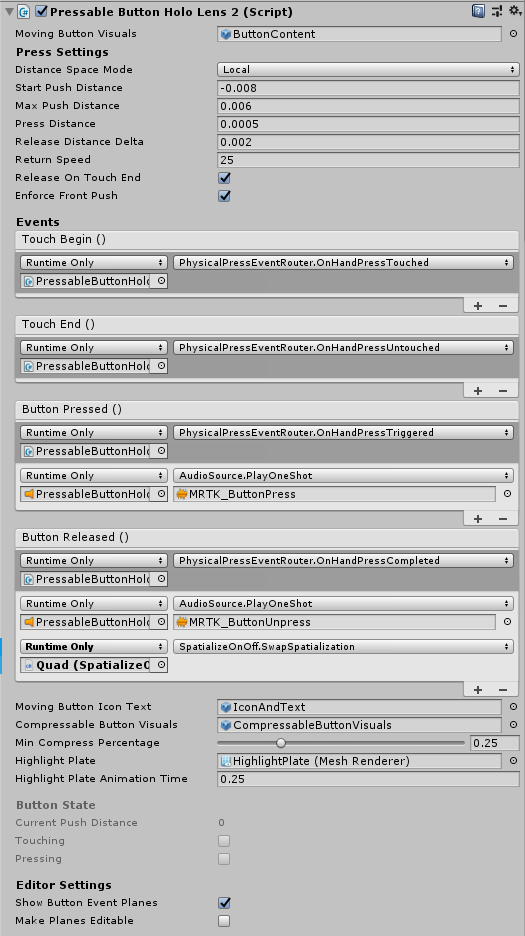
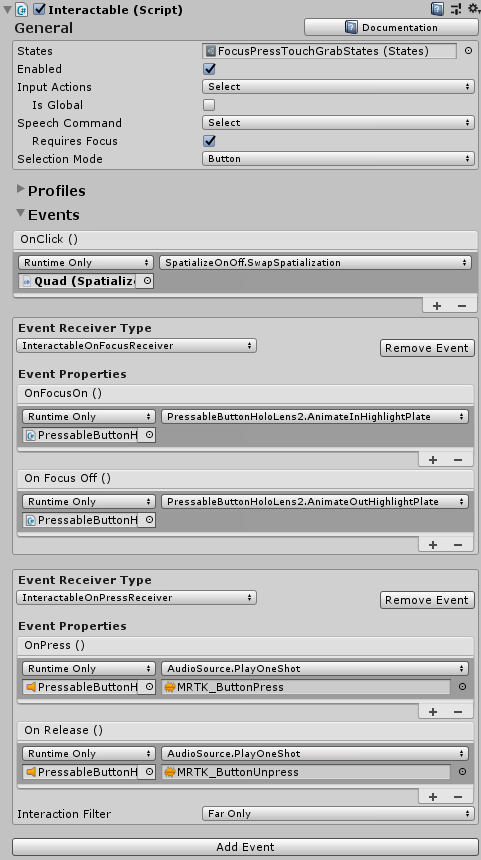
Spatial audio tutorial: comments

diff --git a/mixed-reality-docs/unity-spatial-audio-ch1.md b/mixed-reality-docs/unity-spatial-audio-ch1.md
@@ -8,9 +8,9 @@ ms.topic: article
 keywords: mixed reality, unity, tutorial, hololens2, spatial audio
 ---
 
-# Adding spatial audio to your project
+# Adding spatial audio to your Unity project
 
-This tutorial sequence shows:
+Welcome to the spatial audio tutioral for Unity on HoloLens2. This tutorial sequence shows:
 * How to use HRTF offload on HoloLens 2 in Unity
 * How to enable reverb when using HRTF offload
 
@@ -77,19 +77,15 @@ Using NuGet for Unity, install the MRTK and Microsoft Spatializer plugins:
 
 ![Manage NuGet packages](images/spatial-audio/manage-nuget-packages.png)
 
-2. In the **Search** box, enter "Microsoft.MixedReality.Toolkit"
-
-3. Choose the MRTK core package: **Microsoft.MixedReality.Toolkit.Foundation**
+2. In the **Search** box, enter "Microsoft.MixedReality.Toolkit" and install the MRTK core package: **Microsoft.MixedReality.Toolkit.Foundation**
 
 ![MRTK NuGet package](images/spatial-audio/mrtk-nuget-package.png)
 
-4. In the **Search** box, enter "Microsoft.SpatialAudio"
+[MRTK NuGet Package](https://microsoft.github.io/MixedRealityToolkit-Unity/Documentation/MRTKNuGetPackage.html) has additional context and details.
 
-5. Choose the Microsoft Spatializer package: **Microsoft.SpatialAudio.Spatializer.Unity**
+4. In the **Search** box, enter "Microsoft.SpatialAudio" and install the Microsoft Spatializer package: **Microsoft.SpatialAudio.Spatializer.Unity**
 
 ![Spatializer plugin NuGet](images/spatial-audio/spatializer-plugin-nuget.png)
-
-[MRTK NuGet Package](https://microsoft.github.io/MixedRealityToolkit-Unity/Documentation/MRTKNuGetPackage.html) has additional context and details.
 
 ## Set up MRTK in your project
 
@@ -112,7 +108,7 @@ Enable the **Microsoft Spatializer** plugin. Open **Edit -> Project Settings -> 
 ![Project Settings showing spatializer plugin](images/spatial-audio/project-settings.png)
 
 ## Enable spatial audio on your workstation
-On desktop versions of Windows, spatial audio is disabled by default. Right-click on the volume icon in the task bar and choose **Spatial sound -> Windows Sonic for Headphones**.
+On desktop versions of Windows, spatial audio is disabled by default. Enable it by right-clicking on the volume icon in the task bar. To get the best representation of what you'll hear on HoloLens2, choose **Spatial sound -> Windows Sonic for Headphones**.
 
 ![Desktop spatial audio settings](images/spatial-audio/desktop-audio-settings.png)
 

diff --git a/mixed-reality-docs/unity-spatial-audio-ch2.md b/mixed-reality-docs/unity-spatial-audio-ch2.md
@@ -35,6 +35,9 @@ Your **Mixer** pane will now look like this:
 
 ![Mixer panel with first mixer](images/spatial-audio/mixer-panel-with-first-mixer.png)
 
+> [!NOTE]
+> Until reverb is enabled in [Chapter 5](unity-spatial-audio-ch5.md), the mixer's volume meter doesn't show activity for sounds played through the Microsoft Spatializer
+
 Click the **PressableButtonHoloLens2** in the **Hierarchy** pane. In the **Inspector** pane:
 1. Find the **Audio Source** component
 2. For the **Output** property, click the selector and choose your mixer
@@ -65,7 +68,9 @@ After these changes, the **3D Sound Settings** section of the **Audio Source** p
 
 ## Next steps
 
-Try out your app on a HoloLens 2, or in the Unity editor. In the app, you can touch the button and hear the spatialized button interaction sounds. When testing in the Unity editor, press the space bar and scroll with the scroll wheel to activate hand simulation.
+Try out your app on a HoloLens 2, or in the Unity editor. In the app, you can touch the button and hear the spatialized button interaction sounds.
+
+When testing in the Unity editor, press the space bar and scroll with the scroll wheel to activate hand simulation. For more info, see the [MRTK documentation](https://microsoft.github.io/MixedRealityToolkit-Unity/Documentation/GettingStartedWithTheMRTK.html#using-the-in-editor-hand-input-simulation-to-test-a-scene).
 
 Continue to [Chapter 3](unity-spatial-audio-ch3.md) to add a video to your app, and spatialize the audio from the video.
 

diff --git a/mixed-reality-docs/unity-spatial-audio-ch4.md b/mixed-reality-docs/unity-spatial-audio-ch4.md
@@ -31,6 +31,7 @@ using System.Collections.Generic;
 using UnityEngine;
 using UnityEngine.Audio;
 
+[RequireComponent(typeof(AudioSource))]
 public class SpatializeOnOff : MonoBehaviour
 {
     public GameObject ButtonTextObject;
@@ -96,12 +97,12 @@ After these changes, the **Spatialize On Off** component of the **Quad** will lo
 
 ![Spatialize on off basic](images/spatial-audio/spatialize-on-off-basic.png)
 
-To set the button to call the **Spatialize On Off** script when the button is released, open the **Inspector** pane of the **PressableButtonHoloLens2** object, find the **Pressable Button Holo Lens 2** component, and:
-1. Click the + icon under the **Button Released** section to add an action.
+To set the button to call the **Spatialize On Off** script when the button is released, open the **Inspector** pane of the **PressableButtonHoloLens2** object, find the **Interactable** component, and:
+1. Find the **OnClick ()** region of the **Events** subsection
 2. Drag the **Quad** from the **Hierarchy** into the target object slot.
 3. Select **SpatializeOnOff.SwapSpatialization** from the action drop-down box.
 
-After these changes, the **Pressable Button Holo Lens 2** component will look like this:
+After these changes, the **Interactable** component will look like this:
 
 ![Button action settings](images/spatial-audio/button-action-settings.png)
 

diff --git a/mixed-reality-docs/unity-spatial-audio-ch5.md b/mixed-reality-docs/unity-spatial-audio-ch5.md
@@ -63,6 +63,7 @@ using System.Collections.Generic;
 using UnityEngine;
 using UnityEngine.Audio;
 
+[RequireComponent(typeof(AudioSource))]
 public class SpatializeOnOff : MonoBehaviour
 {
     public GameObject ButtonTextObject;
